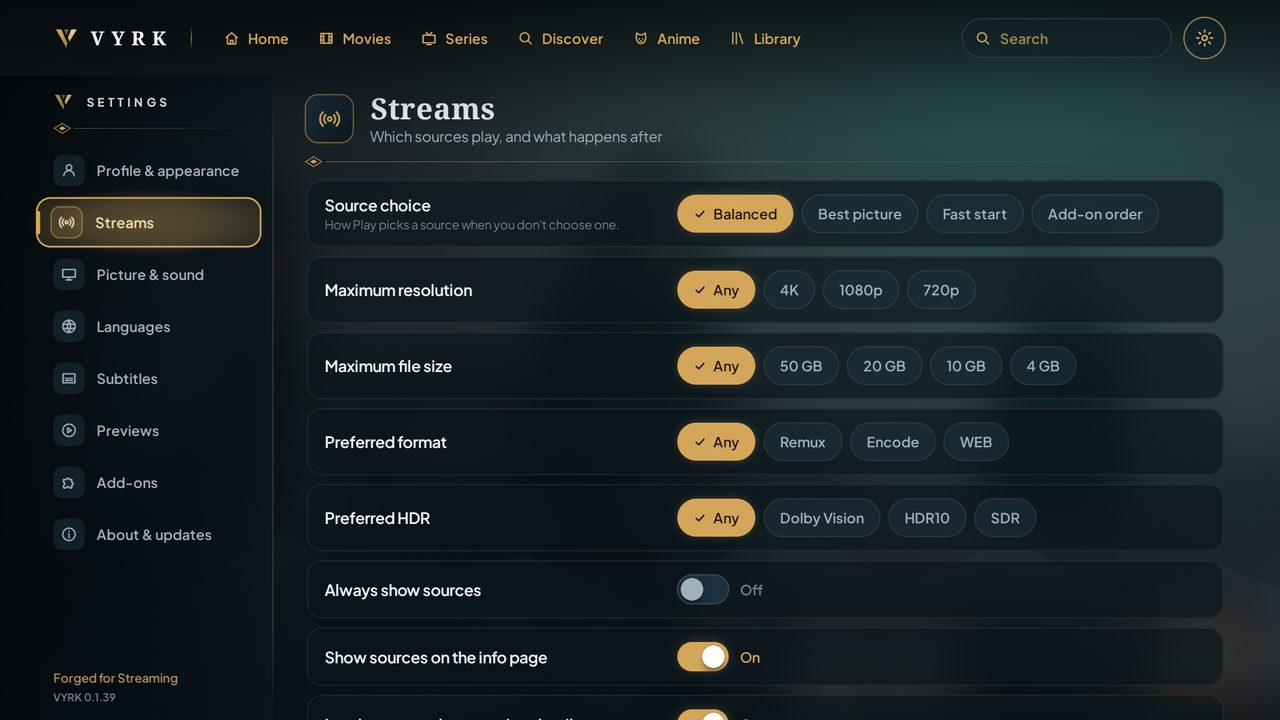
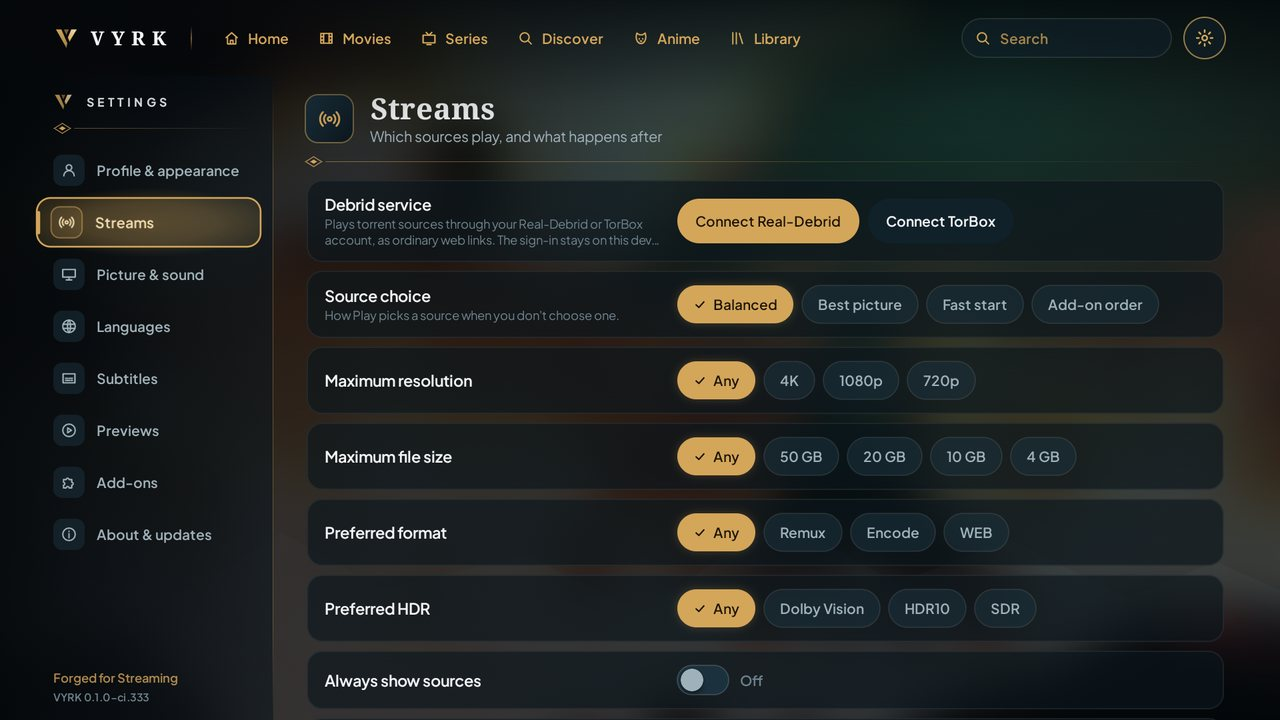
Website and README: today's features, new captures, full list of services
- Site: twelve feature cards for what VYRK does now (title page tabs,
  media cards, Anime tab, debrid and Trakt, instant start and the backup
  player, launcher and screen saver); a gallery of nine new captures
  (title page, cast and crew, episodes, Top 10 with media cards, Anime,
  player, search, settings, three phone screens); Home in the hero; new
  link preview. The privacy list now names every service VYRK can
  contact (AniSkip, fanart.tv, Stremio's image service, and Trakt,
  Real-Debrid or TorBox only when connected).
- Site: the Download section no longer runs wider than a phone screen.
- README: the gallery and features match the app; SECURITY lists the
  same services.

Claude-Session: https://claude.ai/code/session_01Hd75hT9MWUJ8gMzxYVPqJP

diff --git a/site/index.html b/site/index.html
@@ -58,7 +58,7 @@
           <p class="fineprint">No ads, analytics or tracking. VYRK hosts no media and isn't affiliated with Stremio.</p>
         </div>
         <figure class="tv">
-          <div class="tv-frame"><img src="img/shots/home.jpg" alt="VYRK home screen on a TV: icon tabs, a featured title with its logo, synopsis and a Watch now button, arrows at either side, above Top 10 rows" width="1280" height="720"></div>
+          <div class="tv-frame"><img src="img/shots/home.jpg" alt="VYRK's Home on a TV: The Hunger Games: The Ballad of Songbirds and Snakes featured over its artwork with its logo, facts, synopsis and Watch now, above the Top 10 Movies row" width="1280" height="720"></div>
           <div class="tv-stand" aria-hidden="true"></div>
         </figure>
       </div>
@@ -72,39 +72,51 @@
         <div class="features">
           <article class="card">
             <h3>Made for the remote</h3>
-            <p>Every screen works with the D-pad, OK and Back. Focus is a soft glow with a slight zoom, never lost, and it comes back to the poster you left.</p>
+            <p>Every screen works with the D-pad, OK and Back. Focus glows softly, is never lost, and comes back to the poster you left. Ask Google Assistant, or press the remote's Search key, to search.</p>
           </article>
           <article class="card">
             <h3>A cinematic home</h3>
-            <p>A featured title with its own artwork and logo, Continue Watching, Top 10 rows per streaming service and your catalogue rows, with an optional muted trailer.</p>
+            <p>A featured title over its own artwork, Continue Watching, this week's Top 10 films and shows, picks based on what you watched, and your catalogue rows. The background takes on the colours of the title in focus.</p>
           </article>
           <article class="card">
-            <h3>A full-screen title page</h3>
-            <p>Logo, facts, synopsis and cast with photos over the title's artwork. One more press shows the episodes, or every source ranked and explained.</p>
+            <h3>Cards that tell you more</h3>
+            <p>Every poster shows its year, IMDb score and the age certificate for your region. Turn on expanding cards and the poster in focus widens into the title's artwork and logo.</p>
+          </article>
+          <article class="card">
+            <h3>A title page worth opening</h3>
+            <p>Full width over the title's artwork: logo, facts and Play at the top, then tabs for the episodes or sources, details, cast and crew, related titles and extras.</p>
           </article>
           <article class="card">
             <h3>Play just works</h3>
-            <p>Play starts the best source for your TV. Broken links are refreshed or skipped. Skip intro and recap, chapters on the timeline, Up Next and sleep timers.</p>
+            <p>Play starts the best source for your TV, with its first seconds ready before you press it. Broken links are refreshed or skipped, and a backup player takes files the main one can't play.</p>
+          </article>
+          <article class="card">
+            <h3>A player for the sofa</h3>
+            <p>Skip intro and recap, anime openings and endings, chapters on the timeline, Up Next with the next episode's still, episodes in the controls, picture size and sleep timers.</p>
+          </article>
+          <article class="card">
+            <h3>Anime, properly</h3>
+            <p>Its own tab with AniList's trending, seasonal, popular and top-rated lists and a row for every genre, with no AniList account. Home stays free of anime.</p>
           </article>
           <article class="card">
             <h3>Your Stremio, your add-ons</h3>
-            <p>Sign in by QR code to bring your add-ons and library, or start without an account. Install add-ons from a link and configure them from your phone.</p>
+            <p>Sign in by QR code to bring your add-ons and library, or use VYRK without an account. Progress follows Stremio's rules, so other Stremio apps read it correctly.</p>
           </article>
           <article class="card">
-            <h3>Your Stremio account</h3>
-            <p>Scan the QR code on first run to sign in with Stremio, or use VYRK without an account. Watched state follows Stremio's own rules, so progress reads correctly in other Stremio apps.</p>
+            <h3>Debrid and Trakt</h3>
+            <p>Connect Real-Debrid or TorBox to play torrent sources as ordinary links, and Trakt to log what you watch as you watch it.</p>
           </article>
           <article class="card">
             <h3>On your phone too</h3>
-            <p>The same app on Android phones and tablets, with a touch interface of its own: swipe through featured titles, tap to play, double-tap to skip, drag the timeline. TVs keep the remote interface.</p>
+            <p>The same app on Android phones and tablets, with a touch interface of its own: swipe through featured titles, tap to play, double-tap to skip, drag the timeline.</p>
           </article>
           <article class="card">
-            <h3>Seven languages</h3>
-            <p>English, Spanish, Brazilian Portuguese, French, German, Hindi and Italian, with an in-app language choice.</p>
+            <h3>At home on Android TV</h3>
+            <p>Continue Watching on the launcher, a "For you" row on Android TV Home, VYRK as the screen saver, frame-rate matching and audio passthrough.</p>
           </article>
           <article class="card">
-            <h3>Updates inside the app</h3>
-            <p>VYRK checks for a new version when you open it and installs it for you, only if it's signed with the same key as the copy you have.</p>
+            <h3>Seven languages, updates built in</h3>
+            <p>English, Spanish, Brazilian Portuguese, French, German, Hindi and Italian. New versions install from inside the app, only when signed with the same key.</p>
           </article>
         </div>
       </div>
@@ -114,14 +126,17 @@
     <section class="section section-alt" id="screens">
       <div class="wrap">
         <h2>See it on the big screen</h2>
-        <p class="section-lede">Captures of the real app on an Android TV emulator with live catalogues.</p>
+        <p class="section-lede">Captures of the real app on Android TV and phone emulators, with live catalogues.</p>
         <div class="gallery">
-          <figure><img src="img/shots/title-page.jpg" alt="Full-screen title page for Possible Love with cast photos and Play, Trailer, library, watched and info buttons" loading="lazy" width="1280" height="720"><figcaption><strong>Title page</strong> full screen, with the cast</figcaption></figure>
-          <figure><img src="img/shots/episodes.jpg" alt="Series page for Black Doves over the show's artwork, with seasons, runtime, synopsis, cast and a Play button" loading="lazy" width="1280" height="720"><figcaption><strong>Series</strong> full screen, with seasons and the cast</figcaption></figure>
-          <figure><img src="img/shots/top10.jpg" alt="Top 10 on Netflix rows with large ranking numbers and a title header" loading="lazy" width="1280" height="720"><figcaption><strong>Top 10 rows</strong> per streaming service</figcaption></figure>
-          <figure><img src="img/shots/player.jpg" alt="Player with round controls, time left and the time it ends" loading="lazy" width="1280" height="720"><figcaption><strong>Player</strong> with time left and "Ends at"</figcaption></figure>
-          <figure><img src="img/shots/search.jpg" alt="Search with an on-screen keyboard and results for movies and series" loading="lazy" width="1280" height="720"><figcaption><strong>Search</strong> with a keyboard and voice</figcaption></figure>
-          <figure><img src="img/shots/settings.jpg" alt="Settings: a glass sidebar with an icon per group, and the Streams page with segmented choices and On/Off switches" loading="lazy" width="1280" height="720"><figcaption><strong>Settings</strong> with a glass sidebar and compact rows</figcaption></figure>
+          <figure><img src="img/shots/info-page.jpg" alt="Title page for The Hunger Games: Sunrise on the Reaping: its logo, year, genre and runtime, PG-13, 4K and 5.1 badges, the synopsis, Play, Trailer, Library and Watched, with the Sources, Details, Cast and crew, Related and Extras tabs below" loading="lazy" width="1280" height="720"><figcaption><strong>Title page</strong> full width over the title's artwork</figcaption></figure>
+          <figure><img src="img/shots/info-cast.jpg" alt="Cast and crew tab: a row of cast portraits, each with the character's name, and the crew below with their roles" loading="lazy" width="1280" height="720"><figcaption><strong>Cast &amp; crew</strong> large portraits, every character named</figcaption></figure>
+          <figure><img src="img/shots/series-info.jpg" alt="Episodes tab for Blade Runner 2099: the season and Mark season watched, then the episodes with their titles, air dates and synopses" loading="lazy" width="1280" height="720"><figcaption><strong>Episodes</strong> season by season, with air dates and synopses</figcaption></figure>
+          <figure><img src="img/shots/top10-rows.jpg" alt="Home with the Top 10 Movies row in focus: the title header above posters that each show the year, IMDb score and age certificate" loading="lazy" width="1280" height="720"><figcaption><strong>Top 10 rows</strong> with the year, IMDb score and certificate on every card</figcaption></figure>
+          <figure><img src="img/shots/anime.jpg" alt="Anime tab: Fool Night featured over its artwork, above AniList's Trending row of posters with the year, IMDb score and certificate" loading="lazy" width="1280" height="720"><figcaption><strong>Anime</strong> AniList's lists and a row for every genre</figcaption></figure>
+          <figure><img src="img/shots/player.jpg" alt="Player with round controls, the time left and the time it ends" loading="lazy" width="1280" height="720"><figcaption><strong>Player</strong> with time left and "Ends at"</figcaption></figure>
+          <figure><img src="img/shots/search.jpg" alt="Search for big buck bunny: an on-screen keyboard and voice search beside film and series results" loading="lazy" width="1280" height="720"><figcaption><strong>Search</strong> with a keyboard and voice</figcaption></figure>
+          <figure><img src="img/shots/settings.jpg" alt="Settings, Streams page: the debrid service, source choice, maximum resolution and file size, preferred format and HDR" loading="lazy" width="1280" height="720"><figcaption><strong>Settings</strong> debrid, source choice and stream limits</figcaption></figure>
+          <figure><img src="img/shots/phone.jpg" alt="Three phone screens: Home with a featured title and Top 10 rows, the Movies tab with its rows, and a film's title page with Play, cast and sources" loading="lazy" width="1280" height="720"><figcaption><strong>On a phone</strong> a touch interface of its own</figcaption></figure>
         </div>
       </div>
     </section>
@@ -183,7 +198,7 @@ adb install -r vyrk-&lt;version&gt;-arm64-v8a.apk</code></pre>
         </div>
         <ul class="ticks">
           <li>Your Stremio key and add-on addresses are encrypted on the TV with an Android Keystore key, and never shown or logged in full.</li>
-          <li>VYRK talks only to your add-ons, the Stremio account service, IntroDB for intro timings, TMDB for cast photos, artwork, age certificates and title details, AniList for the Anime tab's rows (no account), YouTube for trailers and extras, and GitHub for updates.</li>
+          <li>VYRK talks only to your add-ons, the Stremio account service, IntroDB and AniSkip for skip timings, TMDB, fanart.tv and Stremio's image service for artwork, cast photos, age certificates and title details, AniList for the Anime tab's rows (no account), YouTube for trailers and extras, GitHub for updates, and Trakt, Real-Debrid or TorBox only if you connect them.</li>
           <li>Updates install only if the package, a newer version and the signing certificate all match.</li>
           <li>VYRK hosts, indexes and provides no media. What you watch comes from the add-ons you choose.</li>
         </ul>

diff --git a/site/styles.css b/site/styles.css
@@ -118,6 +118,8 @@ h3 { margin: 0 0 8px; font-size: 19px; line-height: 1.3; letter-spacing: -0.01em
 
 /* ---- Download ---- */
 .download-grid { display: grid; grid-template-columns: 1fr 1fr; gap: 16px; align-items: start; }
+/* Grid items may shrink below their content (the adb box scrolls instead of widening the page). */
+.download-grid > *, .steps > * { min-width: 0; }
 .apks { list-style: none; margin: 12px 0 14px; padding: 0; display: grid; gap: 10px; }
 .apk { display: grid; grid-template-columns: auto 1fr auto; grid-template-areas: "name size size" "for for for"; gap: 2px 12px; padding: 14px 16px; border-radius: 14px; background: rgba(3, 7, 10, 0.5); border: 1px solid var(--edge); text-decoration: none; color: var(--text); transition: background 0.15s ease, transform 0.15s ease; }
 .apk:hover, .apk:focus-visible { background: var(--text); color: var(--bg); transform: scale(1.015); }

diff --git a/README.md b/README.md
@@ -24,24 +24,25 @@ VYRK is a free, open-source Android TV client for Stremio add-ons, with a touch 
 
 | | | |
 |---|---|---|
-| ![Home](docs/images/screenshots/home.jpg)<br>**Home** — featured hero with Watch now, and arrows either side | ![Top 10](docs/images/screenshots/top10-rows.jpg)<br>**Top 10 rows** — ranked per service, with the title header and a muted trailer | ![Title page](docs/images/screenshots/info-page.jpg)<br>**Title page** — full screen, with cast photos; sources and episodes below |
-| ![Series](docs/images/screenshots/series-info.jpg)<br>**Series** — full screen over the show's artwork, with seasons, runtime and the cast | ![Player](docs/images/screenshots/player.jpg)<br>**Player** — elapsed, remaining and "Ends at" | ![Playback help](docs/images/screenshots/audio-subtitles.jpg)<br>**Playback help** — if playback keeps pausing, VYRK offers a lower quality |
-| ![Search](docs/images/screenshots/search.jpg)<br>**Search** — on-screen keyboard, results per type | ![Library](docs/images/screenshots/library.jpg)<br>**Library** — filters, sorts and progress | ![Top 10 suggestion](docs/images/screenshots/top10-suggestion.jpg)<br>**Top 10 suggestion** — one press adds the rows |
-| ![Add-ons](docs/images/screenshots/addons.jpg)<br>**Settings › Add-ons** — reorder, configure by QR, redacted URLs | ![Settings](docs/images/screenshots/settings.jpg)<br>**Settings** — glass sidebar and compact rows; source choice and stream limits | ![First run](docs/images/screenshots/first-run.jpg)<br>**First run** — sign in by QR or start without an account |
+| ![Home](docs/images/screenshots/home.jpg)<br>**Home** — the featured title over its artwork, with the rows below | ![Top 10](docs/images/screenshots/top10-rows.jpg)<br>**Top 10 rows** — the title header, and the year, IMDb score and certificate on every card | ![Title page](docs/images/screenshots/info-page.jpg)<br>**Title page** — full width over the title's artwork, tabs below |
+| ![Details](docs/images/screenshots/info-details.jpg)<br>**Details** — only what the add-ons and TMDB give | ![Cast & crew](docs/images/screenshots/info-cast.jpg)<br>**Cast & crew** — portraits with each character, then the crew | ![Episodes](docs/images/screenshots/series-info.jpg)<br>**Episodes** — season by season, with stills, air dates and synopses |
+| ![Anime](docs/images/screenshots/anime.jpg)<br>**Anime** — AniList's lists and a row for every genre | ![Player](docs/images/screenshots/player.jpg)<br>**Player** — elapsed, remaining and "Ends at" | ![Audio & subtitles](docs/images/screenshots/audio-subtitles.jpg)<br>**Audio & subtitles** — every track, subtitle sync and style |
+| ![Search](docs/images/screenshots/search.jpg)<br>**Search** — on-screen keyboard or voice, results per type | ![Library](docs/images/screenshots/library.jpg)<br>**Library** — filters, sorts and progress | ![Phone](docs/images/screenshots/phone.jpg)<br>**Phones and tablets** — a touch interface of its own |
+| ![Settings](docs/images/screenshots/settings.jpg)<br>**Settings › Streams** — debrid, source choice and stream limits | ![Add-ons](docs/images/screenshots/addons.jpg)<br>**Settings › Add-ons** — reorder, configure by QR, redacted URLs | ![First run](docs/images/screenshots/first-run.jpg)<br>**First run** — sign in by QR or start without an account |
 
-Screenshots are captures of the real app on an Android TV emulator with live catalogues, made by [`ci/showcase.sh`](ci/showcase.sh). Big Buck Bunny © Blender Foundation, [CC BY 3.0](https://creativecommons.org/licenses/by/3.0/). Posters, logos and artwork belong to their owners and come from the installed add-ons.
+Screenshots are captures of the real app on Android TV and phone emulators with live catalogues, made by [`ci/showcase.sh`](ci/showcase.sh) and [`ci/phone.sh`](ci/phone.sh). Big Buck Bunny © Blender Foundation, [CC BY 3.0](https://creativecommons.org/licenses/by/3.0/). Posters, logos and artwork belong to their owners and come from the installed add-ons.
 
 ## Features
 
-**Made for the remote** — every screen works with the D-pad, OK and Back. Focus is a soft frost glow with a slight zoom, never lost, and comes back to the exact poster after the info page, playback or a restart. The layout is fitted to a 960×540 canvas, so 1080p and 4K TVs look the same.
+**Made for the remote** — every screen works with the D-pad, OK and Back. Focus is a soft glow with a slight zoom, never lost, and comes back to the exact poster after the title page, playback or a restart. Google Assistant and the remote's Search key open Search. The layout is fitted to a 960×540 canvas, so 1080p and 4K TVs look the same.
 
-**Browse** — a featured hero, Continue Watching, Top 10 rows per streaming service and your catalogue rows. The Anime tab opens with AniList's trending, seasonal, all-time popular and top-rated rows, then a row for each of its genres (no AniList account needed). A title header with an optional muted trailer follows focus. Rows load lazily and page as you scroll.
+**Browse** — a featured hero, Continue Watching, this week's Top 10 films and shows (TMDB), "Because you watched" rows and your catalogue rows, over a background that takes on the colours of the title in focus. Every poster carries its year, IMDb score and the age certificate for your region; expanding cards (Settings) widen the poster in focus into the title's artwork. The Anime tab opens with AniList's trending, seasonal, all-time popular and top-rated rows, then a row for each of its genres (no AniList account needed); Home never shows anime. A title header with an optional muted trailer follows focus. Rows load lazily and page as you scroll.
 
 **Details and sources** — a full-width title page over the title's own artwork, with tabs below it: every source ranked and explained (or a season guide for a series), the details, the cast and crew, related titles and extras. Play always starts the best source; choosing is optional. With a TMDB key, cast and crew get photos and their own pages.
 
-**Playback** — Media3 with the FFmpeg audio decoder, HLS and DASH. Broken links are refreshed or skipped automatically; a source you picked asks before switching. Skip intro and recap from IntroDB timings, a timeline with chapter markers and smart scrubbing, and if an audio track breaks mid-film VYRK switches to the next best one at the same second. Audio and subtitle preferences, subtitle sync, Up Next, sleep timers.
+**Playback** — Media3 with the FFmpeg audio decoder, HLS and DASH. Instant start gets the first seconds of what Play will play ready while the title page is open. Broken links are refreshed or skipped automatically; a source you picked asks before switching; a file ExoPlayer can't play goes to a backup player (mpv) at the same second, and Dolby Vision profile 7 plays on TVs that take profile 8. Skip intro and recap from IntroDB timings, anime openings and endings from AniSkip, a timeline with chapter markers and smart scrubbing, and if an audio track breaks mid-film VYRK switches to the next best one at the same second. Audio and subtitle preferences, subtitle sync, picture size, Up Next with the next episode's still, episodes in the controls, sleep timers, and Play with another app (VLC, Just Player, MX Player, mpv, Kodi).
 
-**Account and library** — first run opens on the Stremio sign-in QR code, or use VYRK without an account. Watched state and Continue Watching follow Stremio's own rules, so progress reads correctly in other Stremio apps.
+**Account and library** — first run opens on the Stremio sign-in QR code, or use VYRK without an account. Watched state and Continue Watching follow Stremio's own rules, so progress reads correctly in other Stremio apps. Connect Trakt to log what you watch as you watch it, and Real-Debrid or TorBox to play torrent sources as ordinary links.
 
 **Add-ons** — in **Settings › Add-ons**: install from a URL, a `stremio://` link or `vyrk://install?url=…`, reorder, configure by QR on your phone, and save the list back to your account.
 
@@ -49,9 +50,9 @@ Screenshots are captures of the real app on an Android TV emulator with live cat
 
 **Phones and tablets** — the same APK installs on a phone or tablet and opens a touch interface made for it, with the same account, add-ons, library and source ranking. A bottom bar with Home, Search, Library and Settings; swipeable featured titles and catalogue rows; a title page that scrolls, with episodes or sources under Play; search with the phone's keyboard or voice; Stremio sign-in in the browser instead of a QR code. The player goes full screen in landscape: tap for the controls, double-tap the left or right side to skip 10 seconds, drag the timeline, and open audio, subtitles, sources and the sleep timer as sheets. TVs keep the remote interface; VYRK chooses by device.
 
-**TV integration** — Watch Next on the launcher, MediaSession, frame-rate matching, passthrough, automatic updates from GitHub Releases when you open VYRK.
+**TV integration** — Watch Next on the launcher and a "VYRK: For you" row on Android TV Home, VYRK as the screen saver, MediaSession, frame-rate matching, passthrough, automatic updates from GitHub Releases when you open VYRK.
 
-**Privacy** — no ads, analytics, tracking or VYRK account. Your Stremio key and add-on URLs are encrypted with an Android Keystore key and redacted everywhere they're shown or logged. VYRK talks to your add-ons, the Stremio account service, IntroDB (intro timings, by IMDb ID only), TMDB (cast pages, artwork, age certificates and the title page's details, related titles and extras, only when the build has a key), AniList (the Anime tab's rows, no account), YouTube for trailers and GitHub for updates.
+**Privacy** — no ads, analytics, tracking or VYRK account. Your Stremio key and add-on URLs are encrypted with an Android Keystore key and redacted everywhere they're shown or logged. VYRK talks to your add-ons, the Stremio account service, IntroDB (intro timings, by IMDb ID only), AniSkip (anime openings and endings, by MyAnimeList ID; Kitsu titles are looked up on Kitsu), TMDB (cast pages, artwork, age certificates and the title page's details, related titles and extras, only when the build has a key), fanart.tv (logos, only when the build has a key), Stremio's image service (artwork by IMDb ID), AniList (the Anime tab's rows, no account), YouTube for trailers and extras, GitHub for updates, and Trakt, Real-Debrid or TorBox only if you connect them.
 
 The full list, with what is verified and how, is in [docs/FEATURES.md](docs/FEATURES.md).
 

diff --git a/SECURITY.md b/SECURITY.md
@@ -10,7 +10,7 @@ Include what you found, how to reproduce it and which version you used. You'll g
 
 - Your Stremio authKey and every add-on transport URL are stored encrypted with a non-exportable Android Keystore AES-GCM key.
 - Add-on URLs are shown and logged only as `scheme://host/…`. Copied diagnostics are redacted the same way.
-- VYRK talks only to your add-ons, the Stremio account service, IntroDB (intro timings, sent only the IMDb ID, season and episode), TMDB (cast pages, artwork, the age certificates on cards and the title page's details, related titles and extras: sent the title's IMDb or TMDB ID and your device's region, only when the build includes a key), AniList (the Anime tab's rows: sent only genre names and the current season, no account), YouTube (trailers) and GitHub (updates). It has no ads, analytics or tracking.
+- VYRK talks only to your add-ons, the Stremio account service, IntroDB (intro timings, sent only the IMDb ID, season and episode), TMDB (cast pages, artwork, the age certificates on cards and the title page's details, related titles and extras: sent the title's IMDb or TMDB ID and your device's region, only when the build includes a key), AniList (the Anime tab's rows: sent only genre names and the current season, no account), AniSkip (anime opening and ending timings: sent the MyAnimeList ID and episode; for Kitsu titles, Kitsu's API is asked for the MyAnimeList ID), fanart.tv (logos: sent the title's IMDb or TMDB ID, only when the build includes a key), Stremio's image service at images.metahub.space (artwork: the title's IMDb ID), YouTube (trailers and extras), GitHub (updates), and, only when you connect them, Trakt (what you watch, as you watch it) and Real-Debrid or TorBox (the torrents among a title's sources, to check whether they're ready and to play them). It has no ads, analytics or tracking.
 - Updates are installed only if the package name matches, the version is newer and the signing certificate matches the installed app.
 
 ## Signing keys
